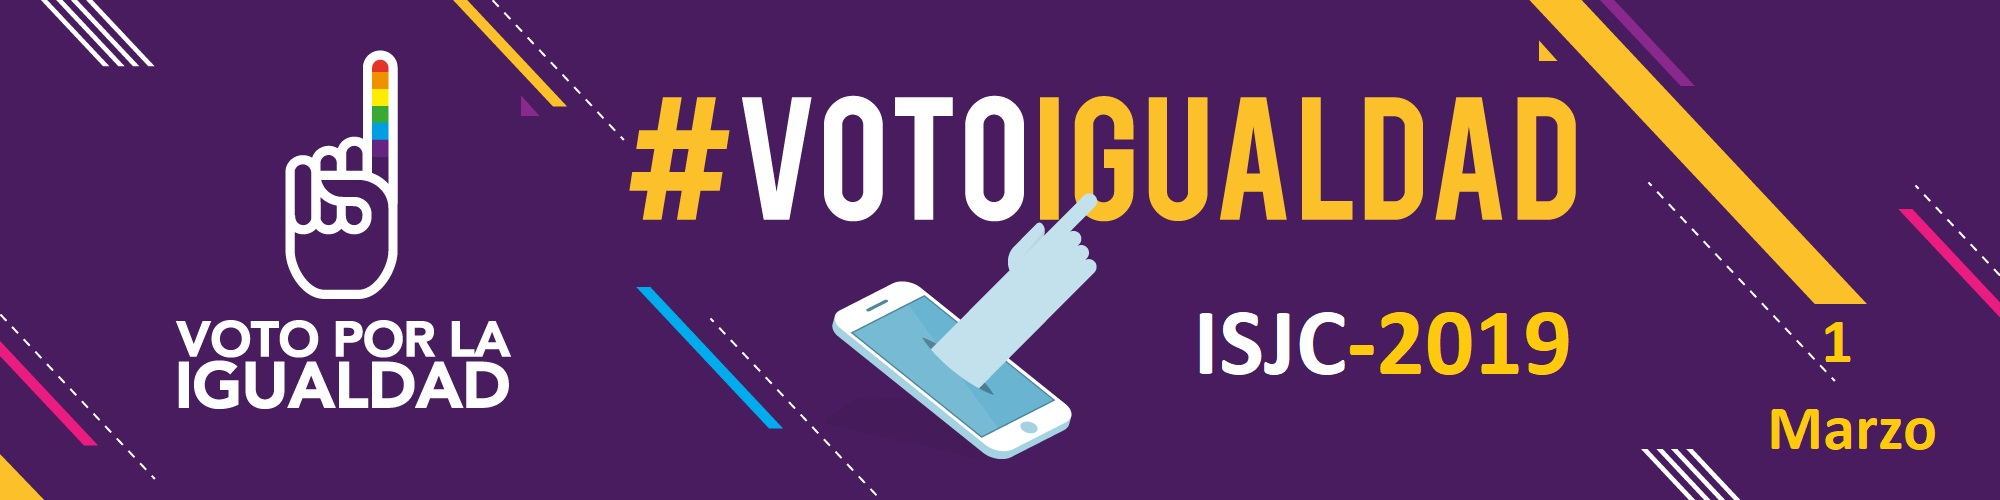
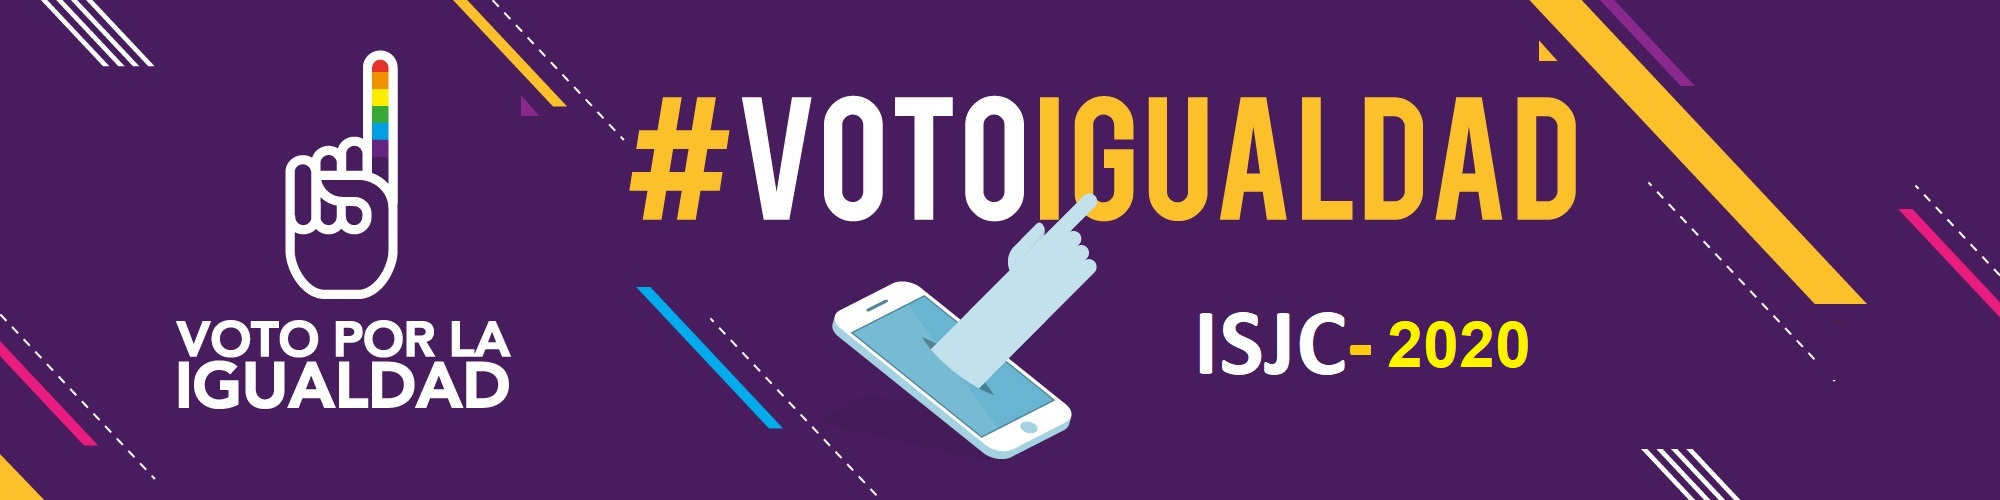
votaciones

Changed region(s): [[0.682, 0.6, 0.806, 0.75], [0.868, 0.81, 0.992, 0.9], [0.899, 0.63, 0.93, 0.75]]

diff --git a/header.html b/header.html
@@ -65,8 +65,13 @@
                                          <li><a href="matricula.php">Matr&iacute;cula</a></li>
 
                                          <!-- <li><a translate="_blank" href="/virtual/public/">Plataforma</a> -->
-                                            <li><a translate="_blank" href="/virtual/public/">PLATAFORMA</a> </li>
-                                            
+                                        <!-- <li><a translate="_blank" href="/virtual/public/">PLATAFORMA</a> </li> -->
+                                        <li><a translate="_blank" href="/virtual/public/">Plataforma</a>
+                                            <ul>
+                                                <li><a translate="_blank" href="https://isjc2020.000webhostapp.com/elecciones_primaria.php">Votaciones Primaria</a></li>
+                                                <li> <a translate="_blank" href="https://isjc2020.000webhostapp.com/elecciones.php">Votaciones Secundaria</a></li>
+                                             </ul>
+                                        </li> 
                                                 
                                                <!--  <li><a target="_blank" href="https://elecciones2019.000webhostapp.com/elecciones_primaria.php">Primaria</a>
                                                 <li><a target="_blank" href="https://elecciones2019.000webhostapp.com/elecciones.php">Secundaria</a> -->

diff --git a/elecciones.php b/elecciones.php
@@ -60,14 +60,14 @@
                         <form action="votosecundaria.php" method="get" align="center">
                             <h3>Votaciones de Secundaria</h3>
                             <h3 align="center">Ingrese su c&oacute;digo de Votaci&oacute;n</h3>
-                            <input style="width:250px;" required name="cuenta" id="cuenta" autofocus class="form-control" minlength = "6" maxlength="6">
+                            <input style="width:250px;" required name="cuenta" id="cuenta" autofocus class="form-control" minlength = "7" maxlength="7">
                             <?php echo "<br />"; ?>
                             <button  type="submit" style=" width:33%;" class="btn btn-success">
                             <i class="fa fa-pencil" > Siguiente  </i></button>
                         </form>
                         
                     </div>
-                </div>
+                </div> 
 
                 </div>
             </div>

diff --git a/elecciones_primaria.php b/elecciones_primaria.php
@@ -60,7 +60,7 @@
                         <form action="votoprimaria.php" method="get" align="center">
                             <h3>Votaciones de Primaria</h3>
                             <h3 align="center">Ingrese su c&oacute;digo de Votaci&oacute;n</h3>
-                            <input style="width:250px;" required name="cuenta" id="cuenta" autofocus class="form-control" minlength = "6" maxlength="6">
+                            <input style="width:250px;" required name="cuenta" id="cuenta" autofocus class="form-control" minlength = "7" maxlength="7">
                             <?php echo "<br />"; ?>
                             <button  type="submit" style=" width:33%;" class="btn btn-success">
                             <i class="fa fa-pencil" > Siguiente  </i></button>

diff --git a/votosecundaria.php b/votosecundaria.php
@@ -10,9 +10,9 @@
    $num_codigo = mysqli_num_rows($res1);
 
    if ($num_codigo==0) {
-        header('Location:https://elecciones2019.000webhostapp.com/error_noacto.php?cuenta='.$cuenta);
+        header('Location:https://isjc2020.000webhostapp.com/error_noacto.php?cuenta='.$cuenta);
    } 
- 
+  
     if ($num_codigo!=0) { //codigo acto para votar
    
         //validamos si este alumno ya voto
@@ -24,7 +24,7 @@
         $numero_filas = mysqli_num_rows($res);
 
         if ($numero_filas>0) {
-             header('Location:https://elecciones2019.000webhostapp.com/error_yavoto.php?cuenta='.$cuenta);			
+             header('Location:https://isjc2020.000webhostapp.com/error_yavoto.php?cuenta='.$cuenta);			
         }
 
         if ($numero_filas==0): ?>

diff --git a/votoprimaria.php b/votoprimaria.php
@@ -10,7 +10,7 @@
    $num_codigo = mysqli_num_rows($res1);
 
    if ($num_codigo==0) {
-        header('Location:https://elecciones2019.000webhostapp.com/error_noacto2.php?cuenta='.$cuenta);
+        header('Location:https://isjc2020.000webhostapp.com/error_noacto2.php?cuenta='.$cuenta);
    } 
  
     if ($num_codigo!=0) { //codigo acto para votar
@@ -24,7 +24,7 @@
         $numero_filas = mysqli_num_rows($res);
 
         if ($numero_filas>0) {
-             header('Location:https://elecciones2019.000webhostapp.com/error_yavoto2.php?cuenta='.$cuenta);			
+             header('Location:https://isjc2020.000webhostapp.com/error_yavoto2.php?cuenta='.$cuenta);			
         }
 
         if ($numero_filas==0): ?>

diff --git a/php/conexion.php b/php/conexion.php
@@ -5,11 +5,11 @@
 //============================================================
 	
 	$host="localhost";
-    $user="id8844379_user1";
+    $user="id12785253_user1";
     $pass="sistemas20";
-    $baseDatos="id8844379_votaciones";
+    $baseDatos="id12785253_votaciones";
 
-    $conexion = mysqli_connect("localhost", "id8844379_user1", "sistemas20", "id8844379_votaciones");
+    $conexion = mysqli_connect("localhost", "id12785253_user1", "sistemas20", "id12785253_votaciones");
     
     if (!$conexion) {
         echo "Error: Unable to connect to MySQL." . PHP_EOL;

diff --git a/resultados.php b/resultados.php
@@ -112,7 +112,7 @@
 
     <div class="courses-page-area2">
         <div class="container" id="pagina" style="text-align:center">
-                <h4>Resultados de las Votaciones Estudiantiles 2019.</h4>
+                <h4>Resultados de las Votaciones Estudiantiles 2020.</h4>
 	            <h4>Total de Votos Realizado: <?php echo $fila['total']; ?></h4>
             <div class="row featuredContainer">
                 <div class="col-lg-3 col-md-3 col-sm-6 col-xs-12 diploma cse english">

diff --git a/resultados_primaria.php b/resultados_primaria.php
@@ -128,7 +128,7 @@
 
     <div class="courses-page-area2">
         <div class="container" id="pagina" style="text-align:center">
-                <h4>Resultados de las Votaciones Estudiantiles 2019.</h4>
+                <h4>Resultados de las Votaciones Estudiantiles 2020.</h4>
 	            <h4>Total de Votos Realizado: <?php echo $fila['total']; ?></h4>
             <div class="row featuredContainer">
                 <div class="col-lg-3 col-md-3 col-sm-6 col-xs-12 diploma cse english">
